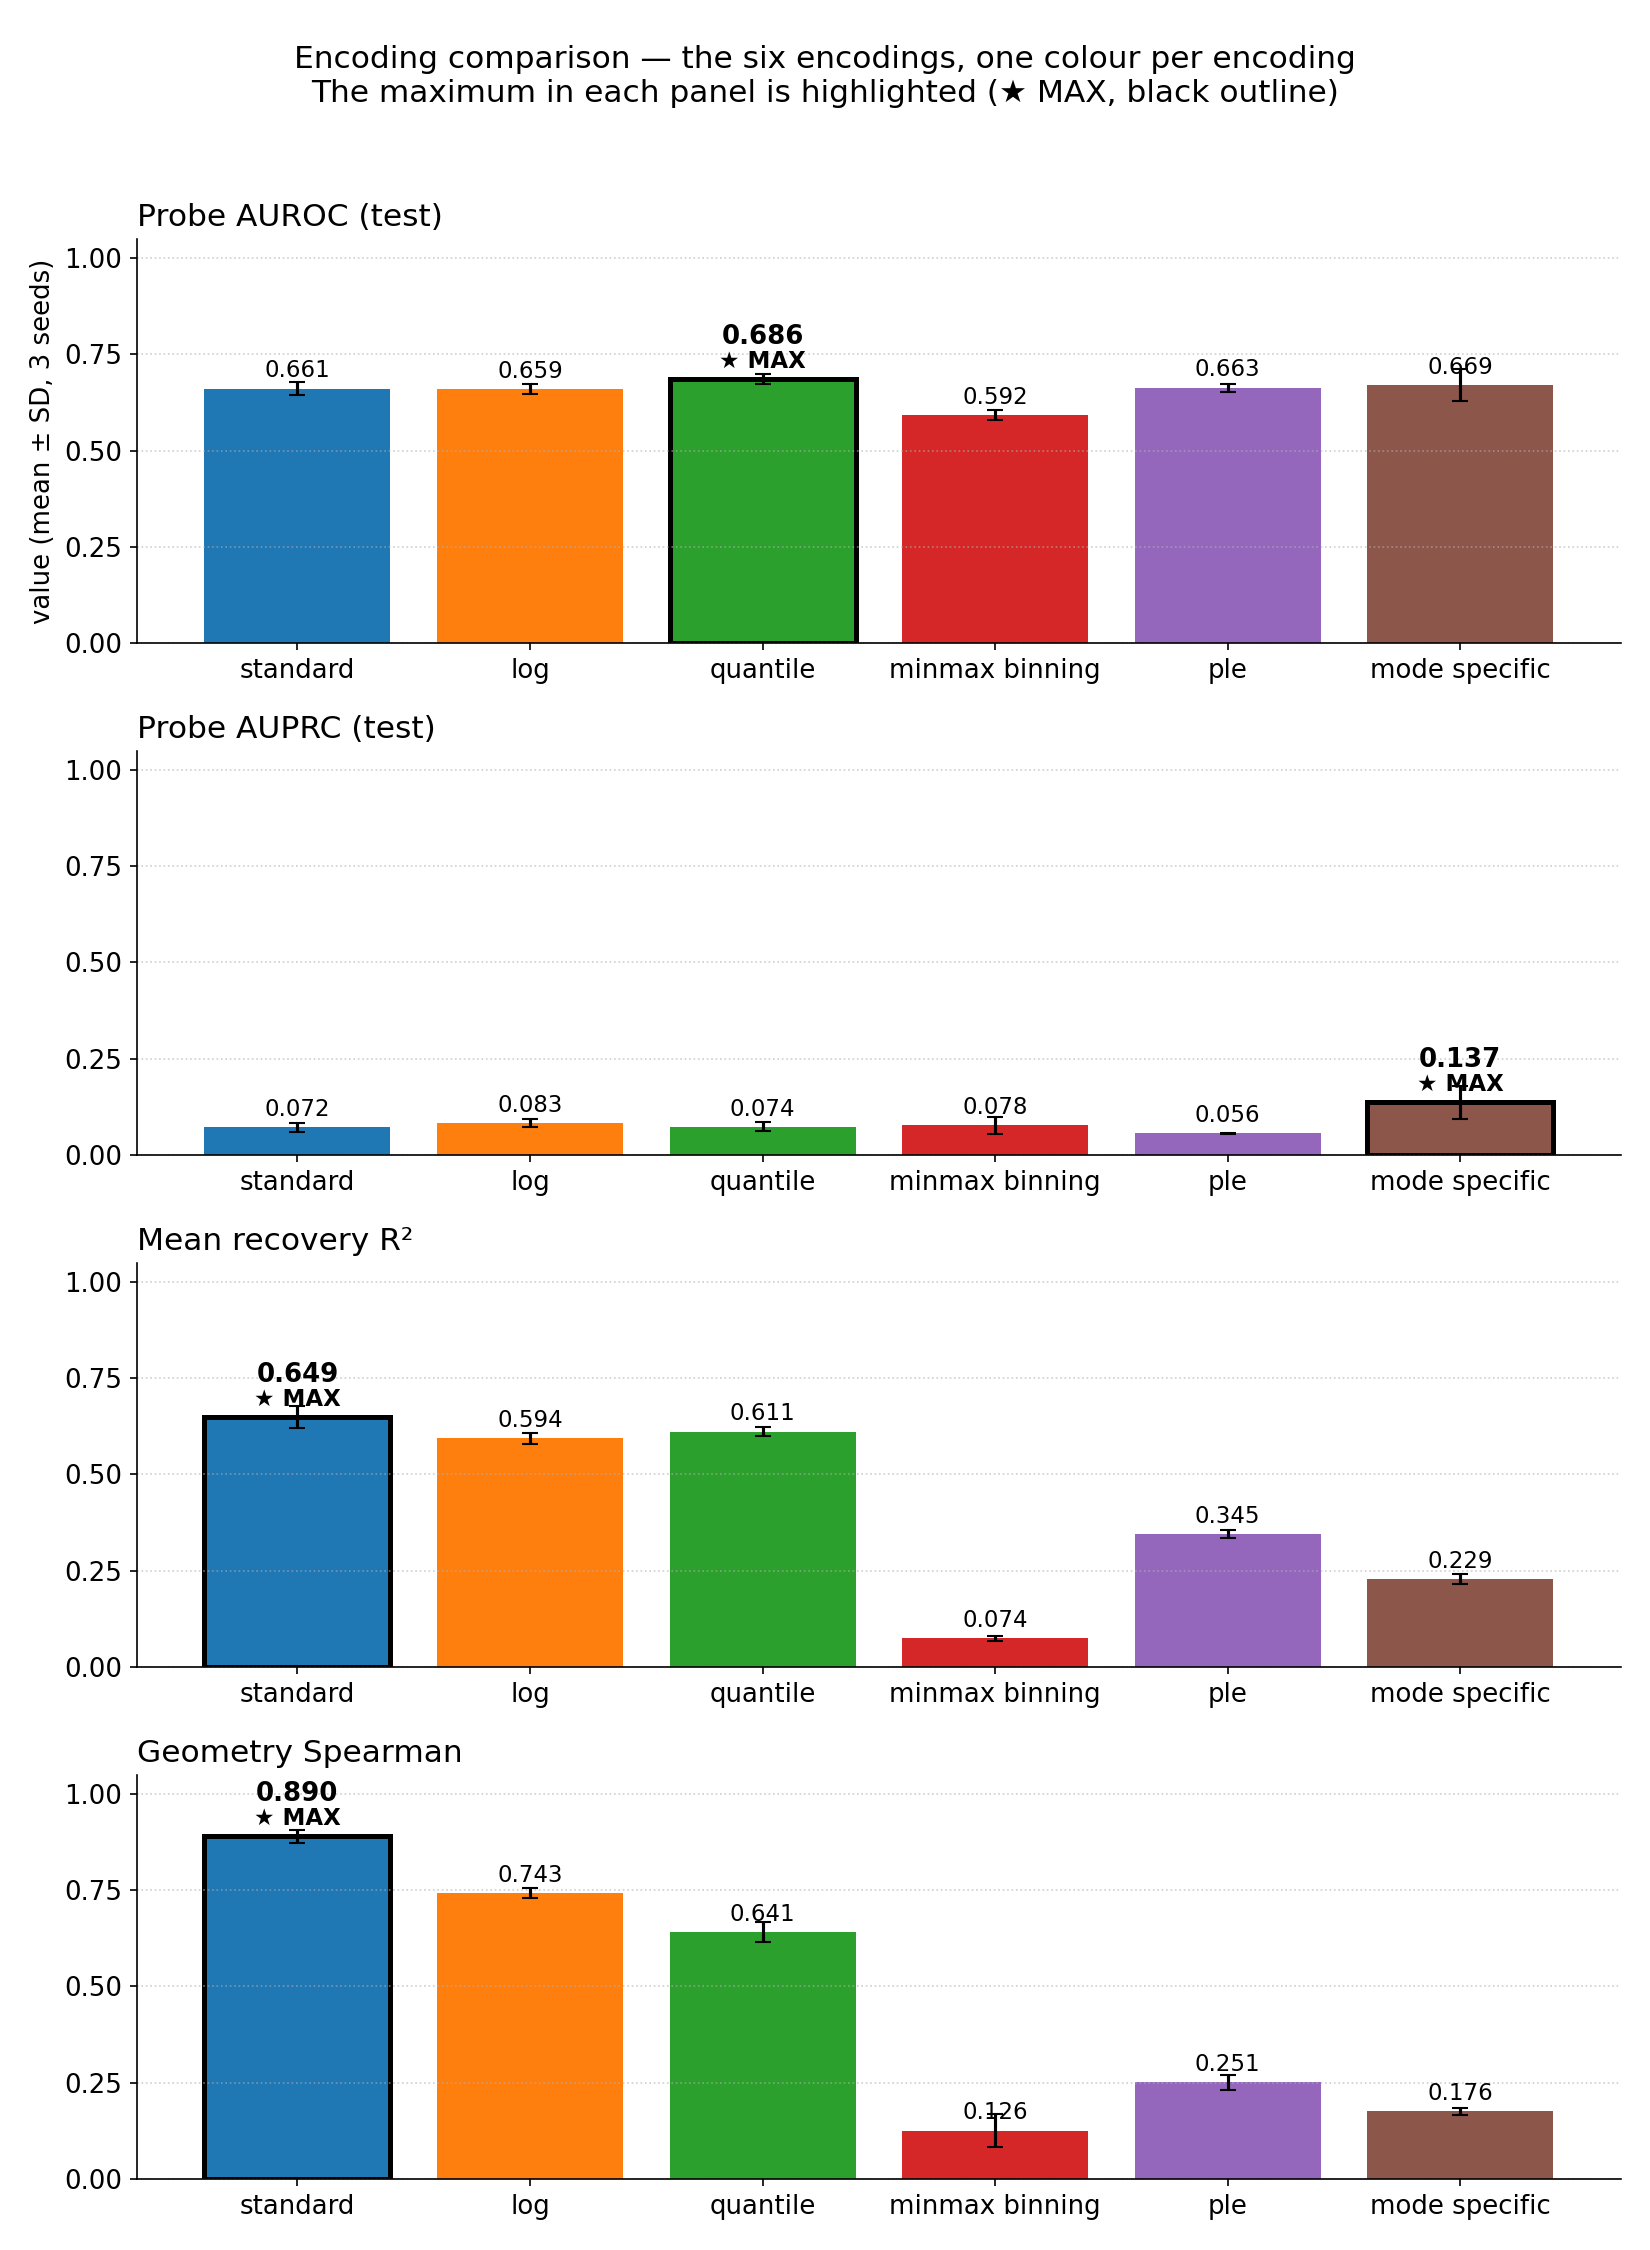
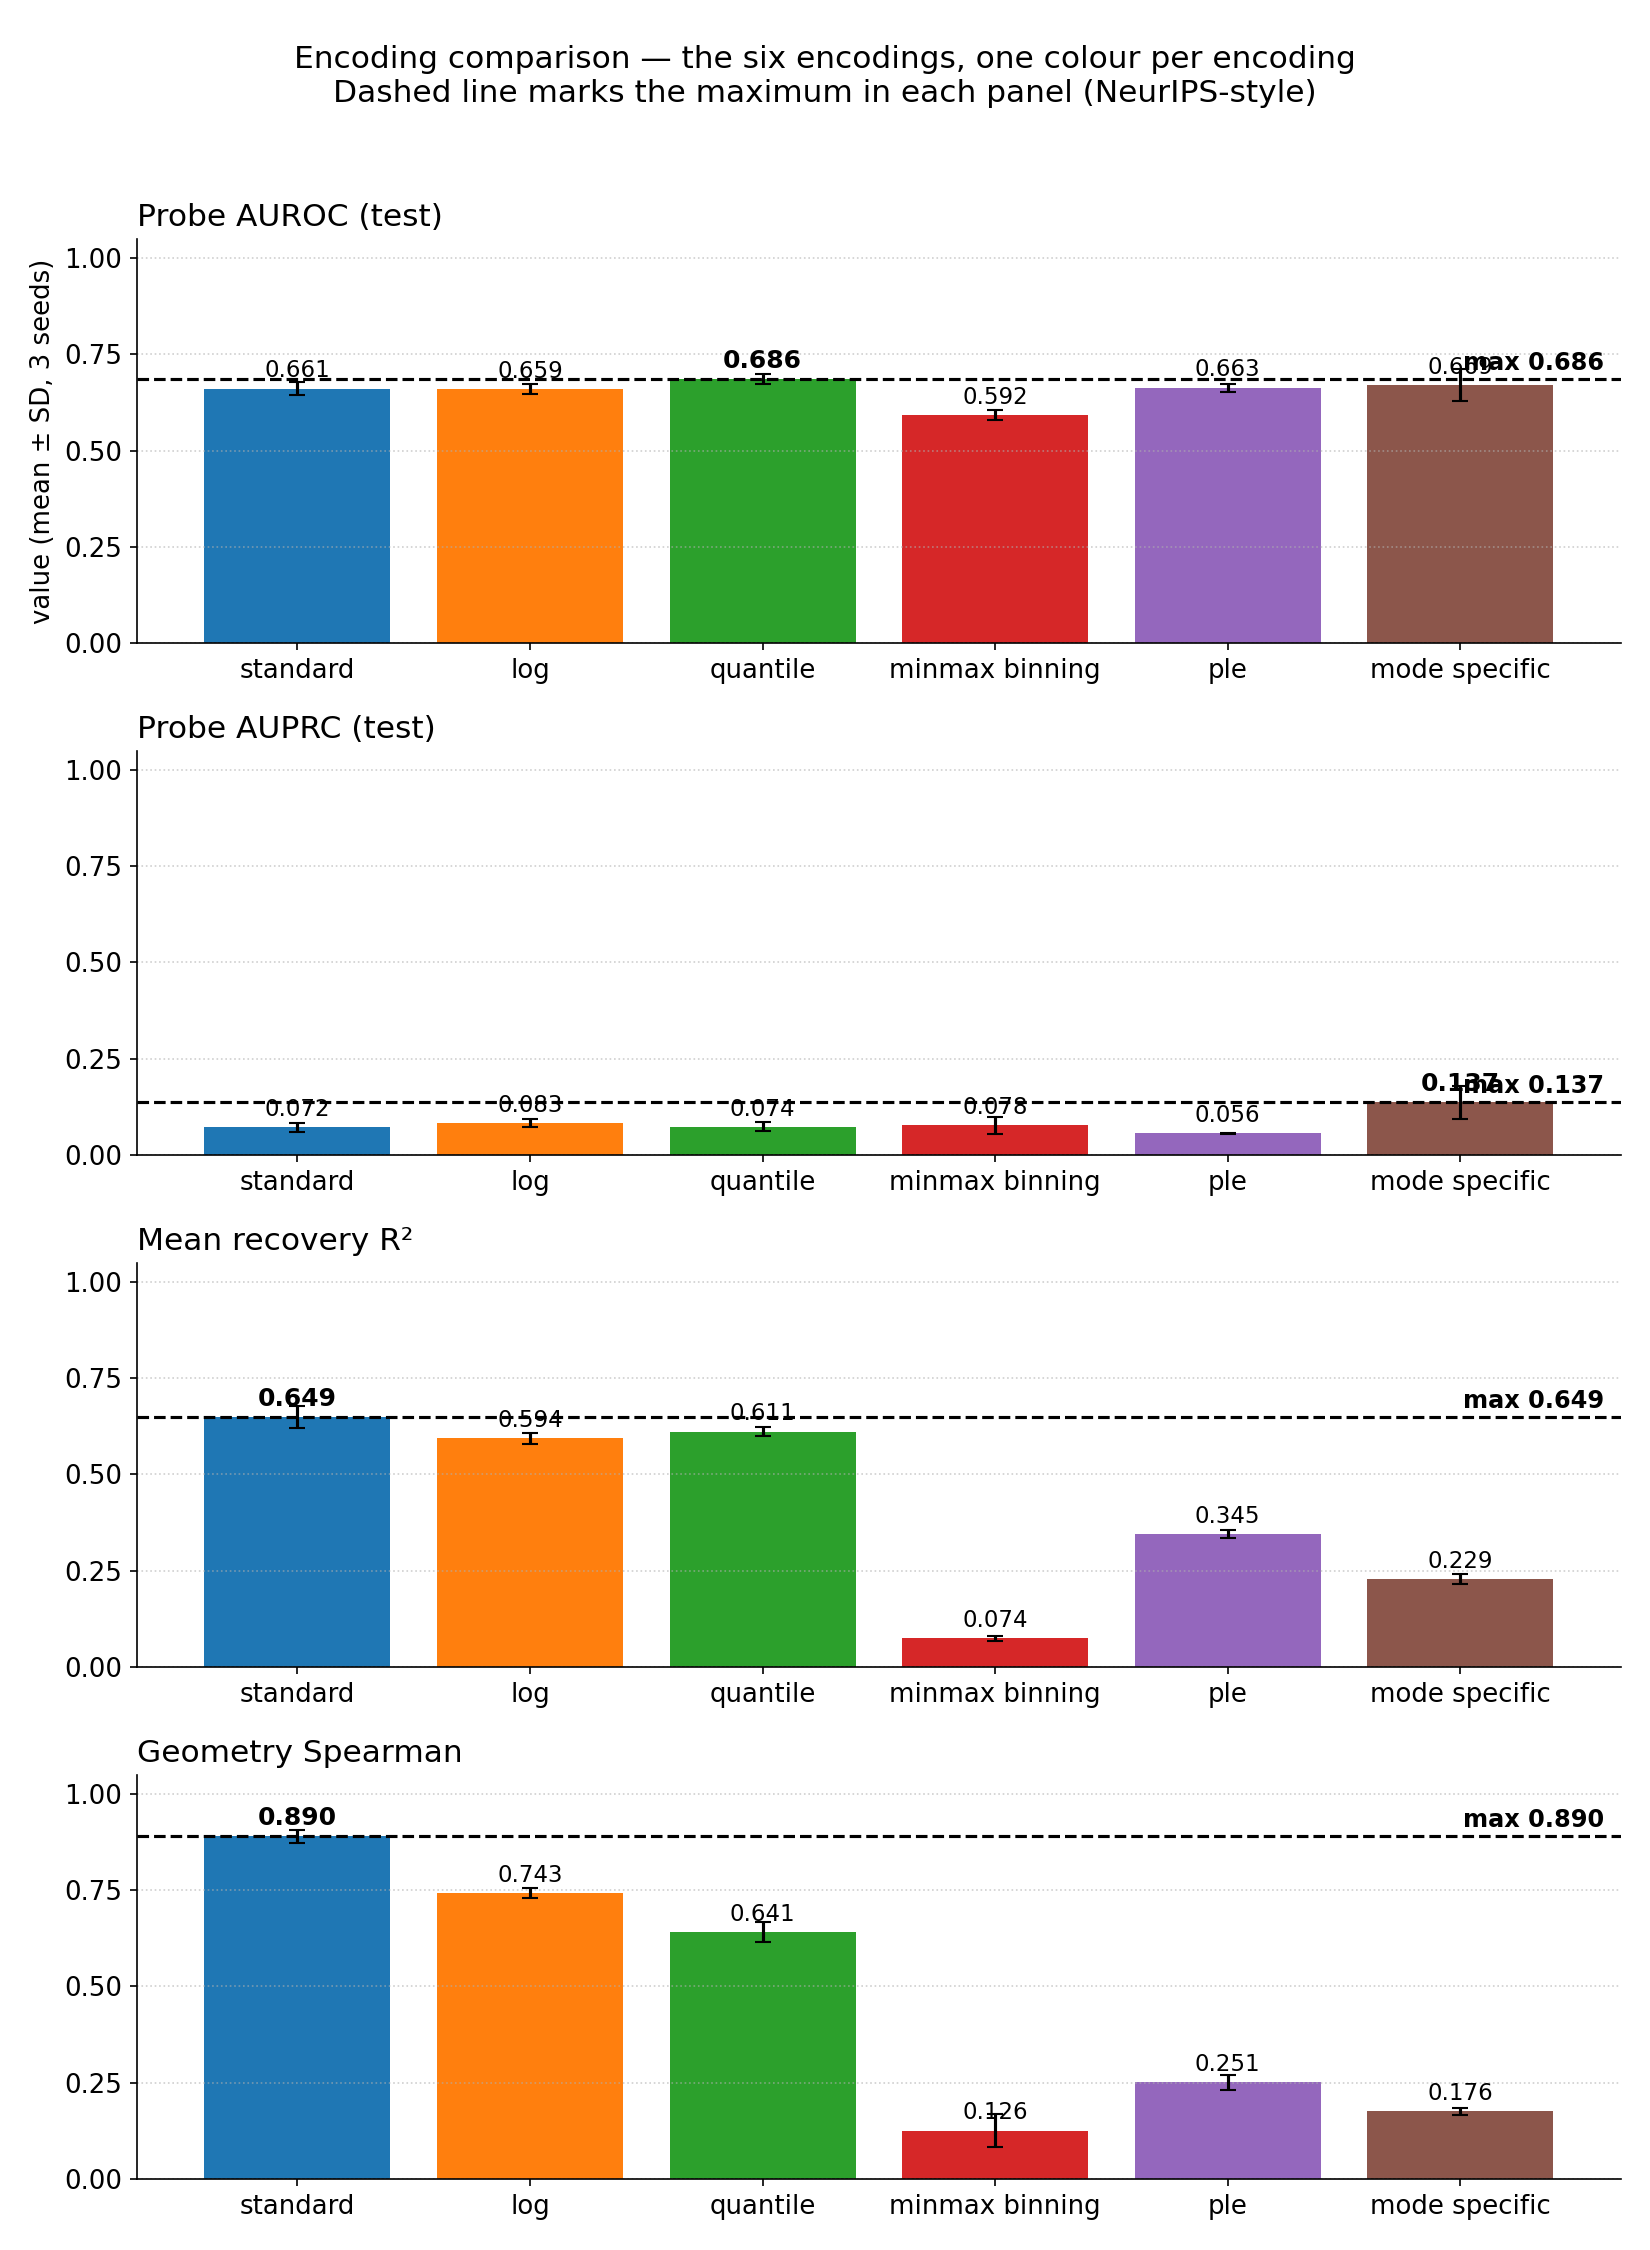
PR6 v3: dashed line marks panel maxima (NeurIPS style); baseline/metrics/thresholds promoted to a dedicated Evaluation design section

diff --git a/results/progress_report6.tex b/results/progress_report6.tex
@@ -1,7 +1,7 @@
 \documentclass[onecolumn]{sigchi}
 
-% Draft prepared 2026-10-29 from the team's progress_report5.tex format.
-% Title/plaintitle to be adjusted by the team (next assignment number).
+% Week-6 report, restructured 2026-10-29: locked baseline + evaluation
+% metrics first, demo results judged against pre-registered thresholds.
 \def\plaintitle{CS197 Progress Report: Numerical Encoding Comparison}
 \def\plainauthor{Max Lee, Owen Liu, and Rita Xiang}
 
@@ -31,22 +31,74 @@ in the number of learnable parameters across encodings; (4) finalize the
 evaluation metrics (downstream prediction, feature recovery, geometry
 preservation) against standardized-feature baselines; and (5) build a
 reproducible pipeline and experiment table before running the experiments.
-All five items are complete: we ran 24 experiments (6 encodings $\times$ 3
-seeds under parameter-matched capacity, plus fixed-capacity contrasts) and
-report the results below.
+All five items are complete. Following the coaching feedback --- hypotheses
+and success criteria first, one variable at a time --- this week we locked
+the baseline, the evaluation metrics, and the success thresholds
+\emph{before} touching the full data, then dry-ran the whole comparison on
+the demo data under those rules (24 parameter-fair runs, 6 encodings
+$\times$ 3 seeds, plus fixed-capacity contrasts).
 
 \subsection{Vector}
-Our riskiest open question has changed shape. We expected encodings to trade
-off prediction against fidelity; instead the two dissociate --- the encoding
+A comparison of encodings only means something under a locked baseline and
+a fixed metric set, so this week we fixed both --- and the demo dry-run
+already puts the baseline under pressure. We expected encodings to trade
+off prediction against fidelity; instead the two dissociate: the encoding
 with the most collapsed latent geometry (mode-specific) gives the best
-ranking of the rare outcome, and the binning encoding fails catastrophically
-in the VAE while scalar encodings barely differ. We do not yet know whether
-this dissociation is a property of the encodings or an artifact of the tiny
-demo sample (11 test deaths), and resolving that on the full eICU data is
-the risk we most need to retire before the final evaluation.
+ranking of the rare outcome, while scalar encodings barely differ and the
+binning encoding fails catastrophically. Whether this dissociation is a
+property of the encodings or an artifact of the tiny demo sample (11 test
+deaths) is the risk the full-data run must retire, judged against the
+thresholds locked below.
+
+\section{Evaluation design (locked)}
+\subsection{Baseline (locked)}
+The primary baseline is \textbf{standard scaling} in the frozen VAE: every
+encoding is reported as a difference from standard, never as a bare number.
+Two reference points frame every table: a \textbf{ceiling}, logistic
+regression on the original standardized features $X$ (what compression to
+the latent space costs), and a \textbf{chance floor}, outcome prevalence
+for AUPRC and 0.5 for AUROC. The baseline is itself a hypothesis under test
+(H5), not an assumption: it counts as validated only if it passes the
+thresholds below.
+
+\subsection{Evaluation metrics (locked)}
+\begin{table}
+\centering
+\small
+\setlength{\tabcolsep}{4pt}
+\begin{tabular}{lll}
+Category & Primary metric & Secondary \\
+\hline
+Downstream prediction (probe on $Z$) & AUPRC & AUROC \\
+Feature recovery & Mean per-feature $R^2$ & Per-feature table \\
+Geometry preservation & Spearman (300-patient subsample) & Pearson, NN overlap \\
+\end{tabular}
+\caption{Locked evaluation metrics: three categories, one primary each.
+AUPRC is primary for prediction because the outcome is rare and ranking
+the positives is what matters. Per-encoding diagnostics (final KL, seed
+SDs, instability log) are reported but never compared across encodings,
+since validation losses are not comparable when each encoding changes the
+reconstruction target's scale. A clustering check (k-means ARI, suggested
+in coaching) is exploratory only.}
+\end{table}
+
+\subsection{Protocol and success thresholds (locked)}
+Protocol: identical Week 1--2 procedure and frozen 20-feature set on the
+full data; stratified splits, seed 42; the six encodings confirmatory;
+parameter-fair primary, fixed-width secondary; seeds \{42, 1, 2026\};
+latent dimension 8 primary, with 4 and 32 as the secondary axis. Success
+thresholds, fixed in advance:
+(1) \emph{baseline validated} if standard's geometry $\geq$ 0.80 and no
+encoding beats its AUPRC by $\geq$ 0.02;
+(2) \emph{dissociation confirmed} if mode-specific beats standard's AUPRC
+by $\geq$ 0.02 while trailing its recovery by $\geq$ 0.20;
+(3) \emph{binning collapse} if the binning encoding shows recovery
+$<$ 0.15 and final KL $<$ 0.5.
+Anything that misses its threshold is reported as not confirmed.
+
 
 \section{Results: Coding and Experiments}
-\subsection{Overall data and Hypotheses}
+\subsection{Setup and hypotheses}
 We used the frozen Week-2 setup throughout: 20 features (12 numerical, 5
 binary admission-diagnosis indicators, 3 categorical) from the eICU demo
 (1,722 stays), stratified train/validation/test splits (seed 42), and the
@@ -65,8 +117,9 @@ specialized encodings better than plain scaling. \textbf{H5} --- no encoding
 transforms the problem: a standardized baseline is already a good
 representation.
 
-\subsection{Encoding comparison results}
-Test-set results (mean $\pm$ SD over 3 seeds, parameter-fair):
+\subsection{Demo dry-run: results}
+Test-set results (mean $\pm$ SD over 3 seeds, parameter-fair), with the
+locked ceiling and floor printed as reference rows:
 
 \begin{table}
 \centering
@@ -82,19 +135,22 @@ Quantile & \textbf{0.686 $\pm$ 0.015} & 0.074 $\pm$ 0.014 & 0.611 $\pm$ 0.014 & 
 Min--max binning & 0.592 $\pm$ 0.017 & 0.078 $\pm$ 0.027 & 0.074 $\pm$ 0.008 & 0.126 $\pm$ 0.052 \\
 PLE & 0.663 $\pm$ 0.013 & 0.056 $\pm$ 0.001 & 0.345 $\pm$ 0.014 & 0.251 $\pm$ 0.025 \\
 Mode-specific & 0.669 $\pm$ 0.051 & \textbf{0.137 $\pm$ 0.051} & 0.229 $\pm$ 0.015 & 0.176 $\pm$ 0.012 \\
+\hline
+Ceiling: logistic on $X$ & 0.693 & 0.105 & --- & --- \\
+Chance floor & 0.500 & 0.032 & 0.000 & 0.000 \\
 \end{tabular}%
 }
-\caption{Encoding comparison on the test split (345 stays, 11 deaths).
-Validation losses are not comparable across encodings, since each changes
-the reconstruction target's scale.}
+\caption{Encoding comparison on the test split (345 stays, 11 deaths),
+eICU demo data. Validation losses are not comparable across encodings,
+since each changes the reconstruction target's scale.}
 \end{table}
 
 \begin{figure}
 \centering
-\includegraphics[width=0.95\columnwidth]{fig_week6_all_encodings.png}
+\includegraphics[width=0.88\columnwidth]{fig_week6_all_encodings.png}
 \caption{Per-metric comparison with error bars across the six encodings
 (one colour per encoding), eICU demo data; the maximum in each panel is
-highlighted. Findings: no encoding wins overall --- the maximum changes
+marked by a dashed line. Findings: no encoding wins overall --- the maximum changes
 hands by metric. Standard scaling takes both structural metrics (recovery
 0.649, geometry 0.890); mode-specific wins rare-outcome ranking (AUPRC
 0.137, $\approx$1.9$\times$ standard) despite the weakest structure, so
@@ -122,22 +178,38 @@ standardized baseline is a good representation, and no encoding beat it
 overall --- gains are metric-specific (mode-specific for ranking the rare
 outcome, transforms for the most-skewed feature).
 
+\textbf{Verdicts against the locked thresholds (demo).}
+\emph{Baseline validated?} No --- standard's geometry passes (0.890
+$\geq$ 0.80), but mode-specific beats its AUPRC by 0.065 $\geq$ 0.02, so
+the baseline has a real challenger on the primary metric.
+\emph{Dissociation?} Confirmed on demo: AUPRC margin $+$0.065 with a
+recovery deficit of 0.42, both beyond their thresholds.
+\emph{Binning collapse?} Confirmed on demo: recovery 0.074 $<$ 0.15 and
+final KL $\approx$ 0 $<$ 0.5.
+Diagnostics: no failed runs in the full grid; in the latent-dimension loop
+(4/8/32), standard's recovery rises 0.375 $\rightarrow$ 0.649 $\rightarrow$
+0.893, mode-specific's AUPRC edge peaks at dimension 8, and binning never
+recovers at any dimension (numerically unstable at 32).
 Caveat: with 11 test deaths, AUPRC differences are suggestive, not
-conclusive; the full-data re-run below is the deciding test.
+conclusive; the full-data run below is the deciding test.
 
 \subsection{Next week's plan}
-(1) Re-run the identical frozen pipeline on the full eICU release and check
-whether the two headline patterns --- the mode-specific AUPRC advantage and
-the binning collapse --- survive at scale. (2) Run two mechanism checks: a
-prior/KL sweep for mode-specific, and a target-scaling control for the
-binning collapse. (3) Agree on the Week-8 evaluation plan (metrics,
-baselines, ablations) before the project deadline.
+(1) Run the identical frozen pipeline on the full eICU release under the
+locked protocol --- data status: 11 of the 12 required tables are in hand
+and checksum-verified; the vital-signs table (vitalPeriodic) is being
+repaired and is the only blocker. (2) Report the confirmatory verdicts
+against the locked thresholds in the next report --- thresholds will not
+be adjusted after seeing full-data results. (3) Run two mechanism checks:
+a prior/KL sweep for mode-specific, and a target-scaling control for the
+binning collapse. (4) Prepare the final talk (Nov 11).
 
 \section{Team members' contributions}
 \subsection{Individual Contributions}
-This week we designed and ran the systematic comparison of numerical
-encoding strategies. Owen implemented the experiment pipeline and the
-parameter-fair training protocol, ran the 24-run grid across the six encodings, and produced the comparison tables and figures.
+This week we locked the evaluation design and ran the systematic
+comparison of numerical encoding strategies under it. Owen implemented
+the experiment pipeline and the parameter-fair training protocol, ran
+the 24-run grid across the six encodings, and produced the comparison
+tables and figures.
 Max [ \ldots ]. Rita [ \ldots ]. Throughout the week we discussed the
 hypotheses, reviewed each other's code and results, and planned the
 full-data re-run together.
